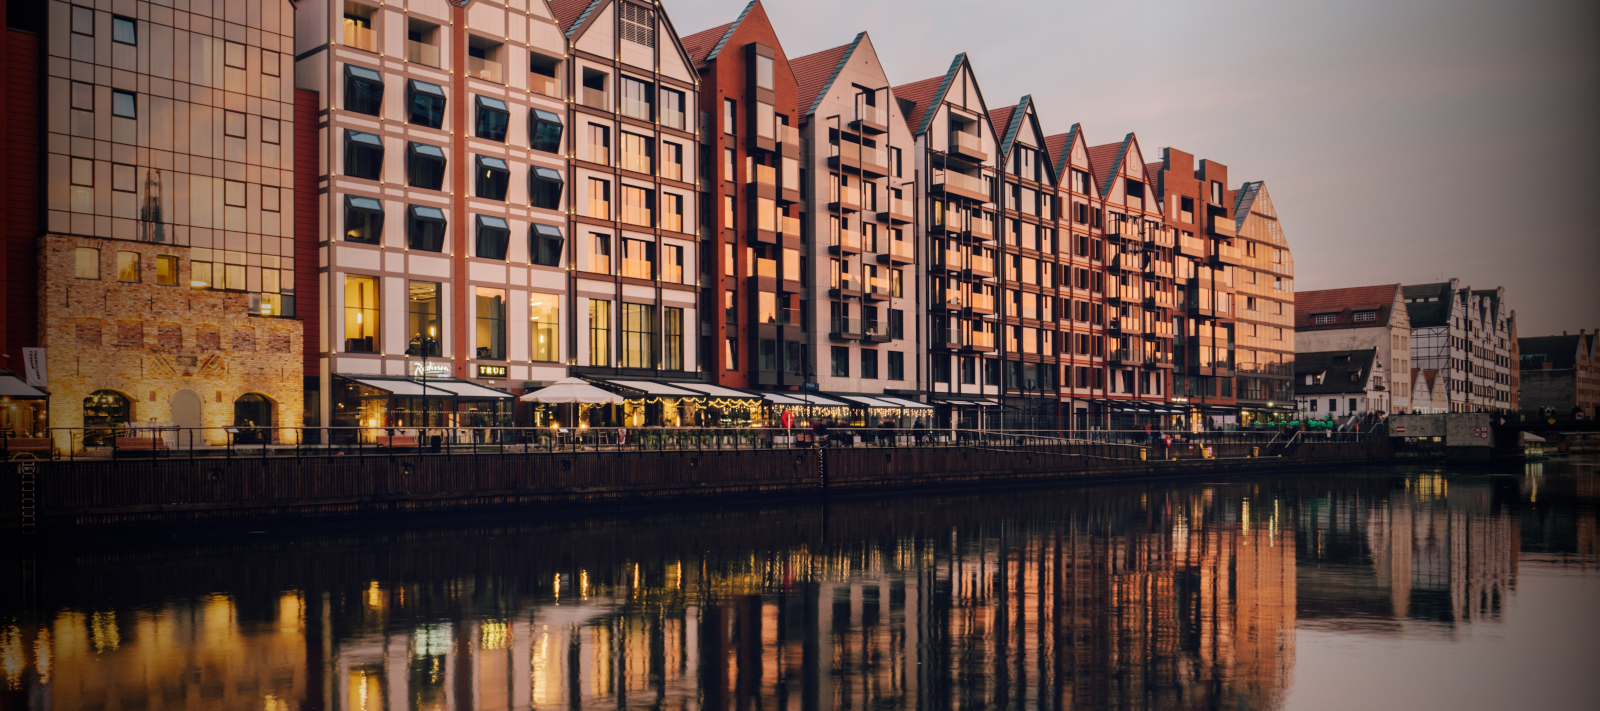
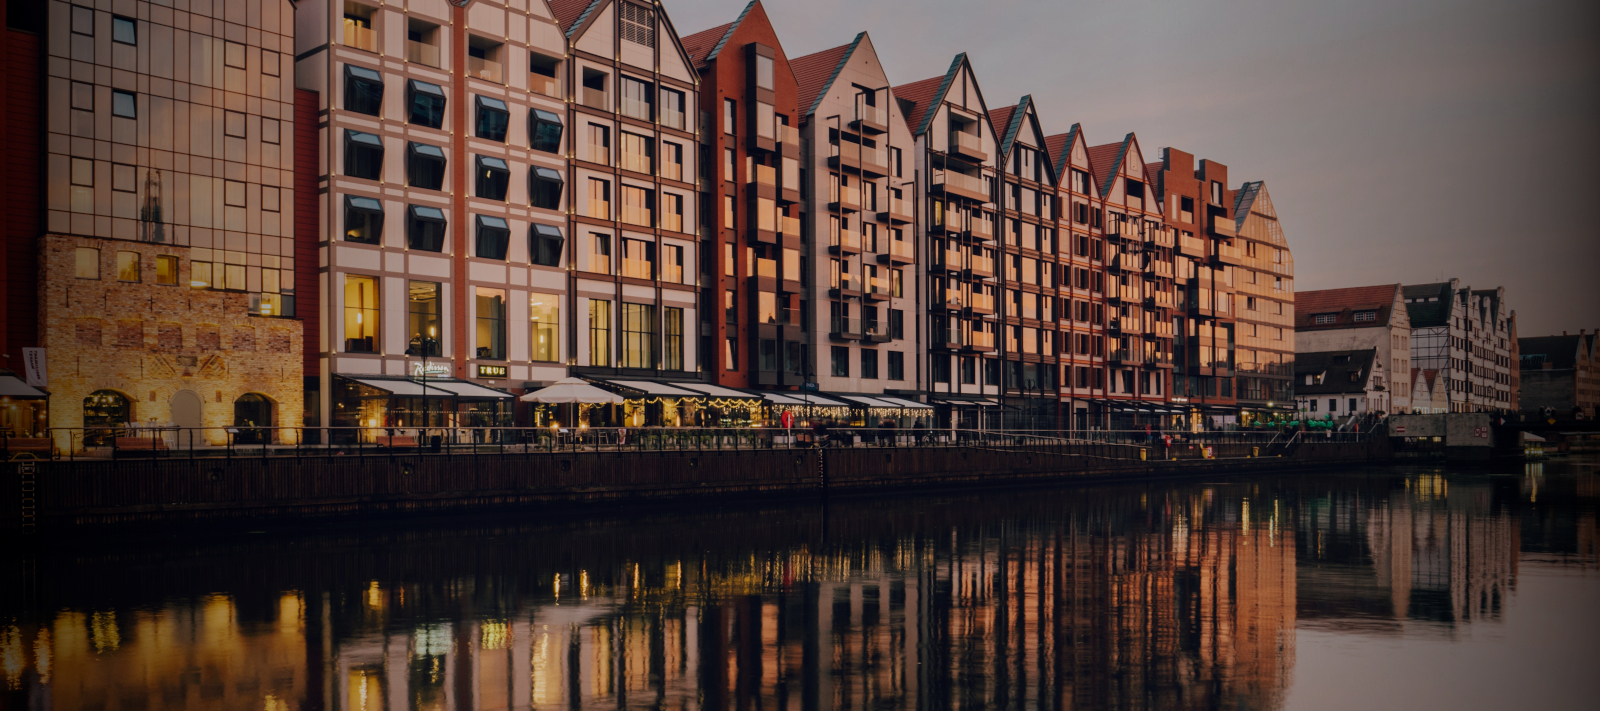
hero pictures and test shadow done

diff --git a/hero.css b/hero.css
@@ -21,11 +21,11 @@ header{
     transition: background-image 1s ease-in-out;
 }
 .hero--image2{
-    background-image: url("img/banner-city.jpg");
+    background-image: url("img/banner-gdansk.jpg");
     transition: background-image 1s ease-in-out;
 }
 .hero--image3{
-    background-image: url("img/banner-sunglasses.jpg");
+    background-image: url("img/banner-sand.jpg");
     transition: background-image 1s ease-in-out;
 }
 
@@ -50,17 +50,18 @@ header{
 }
 
 .hero__arrow:hover{
-    color: var(--color-light-blue);
+    color: var(--color-white);
 }
 .hero__arrow:focus {
     outline: none;
 }
 
 .hero__title{
-    color: var(--color-light-blue);
+    color: var(--color-white);
     font-size: 7vw;
     text-align: center;
     font-family: 'Comfortaa', cursive;
+    text-shadow: 1px 1px 3px #000, 0px 0px 5px #000;
 }
 
 .hero__bottom-box{
@@ -71,24 +72,24 @@ header{
 }
 
 .hero__secondary-title{
-    color: var(--color-light-blue);
+    color: var(--color-white);
     font-size: 5vw;
     padding: 20px 5px;
     font-weight: normal;
-    text-shadow: 2px 2px 3px var(--color-dark);
+    text-shadow: 1px 1px 2px #000, 1px 1px 3px #000, 0px 0px 5px #000, 0px 0px 5px #000, 0px 0px 10px #000, 0px 0px 10px #000, 0px 0px 10px #000, 0px 0px 10px #000;
 }
 
 .hero__button{
     display: inline-block;
     width: fit-content;
     text-decoration: none;
-    color: var(--color-light-blue);
-    background: rgba(255, 255, 255, 0.2);
+    color: var(--color-white);
+    background: var(--color-blue);
     padding: 15px;
-    border: 3px solid var(--color-light-blue);
+    border: 3px solid var(--color-white);
     border-radius: 30px;
     font-size: 5vw;
-    text-shadow: 2px 2px 3px var(--color-dark);
+    text-shadow: 1px 1px 3px #000, 0px 0px 5px #000, 0px 0px 10px #000;
 }
 
 
@@ -97,7 +98,7 @@ header{
         font-size: 25px;
     }
     .hero__secondary-title{
-        font-size: 18px;
+        font-size: 20px;
     }
     .hero__button{
         font-size: 18px;
